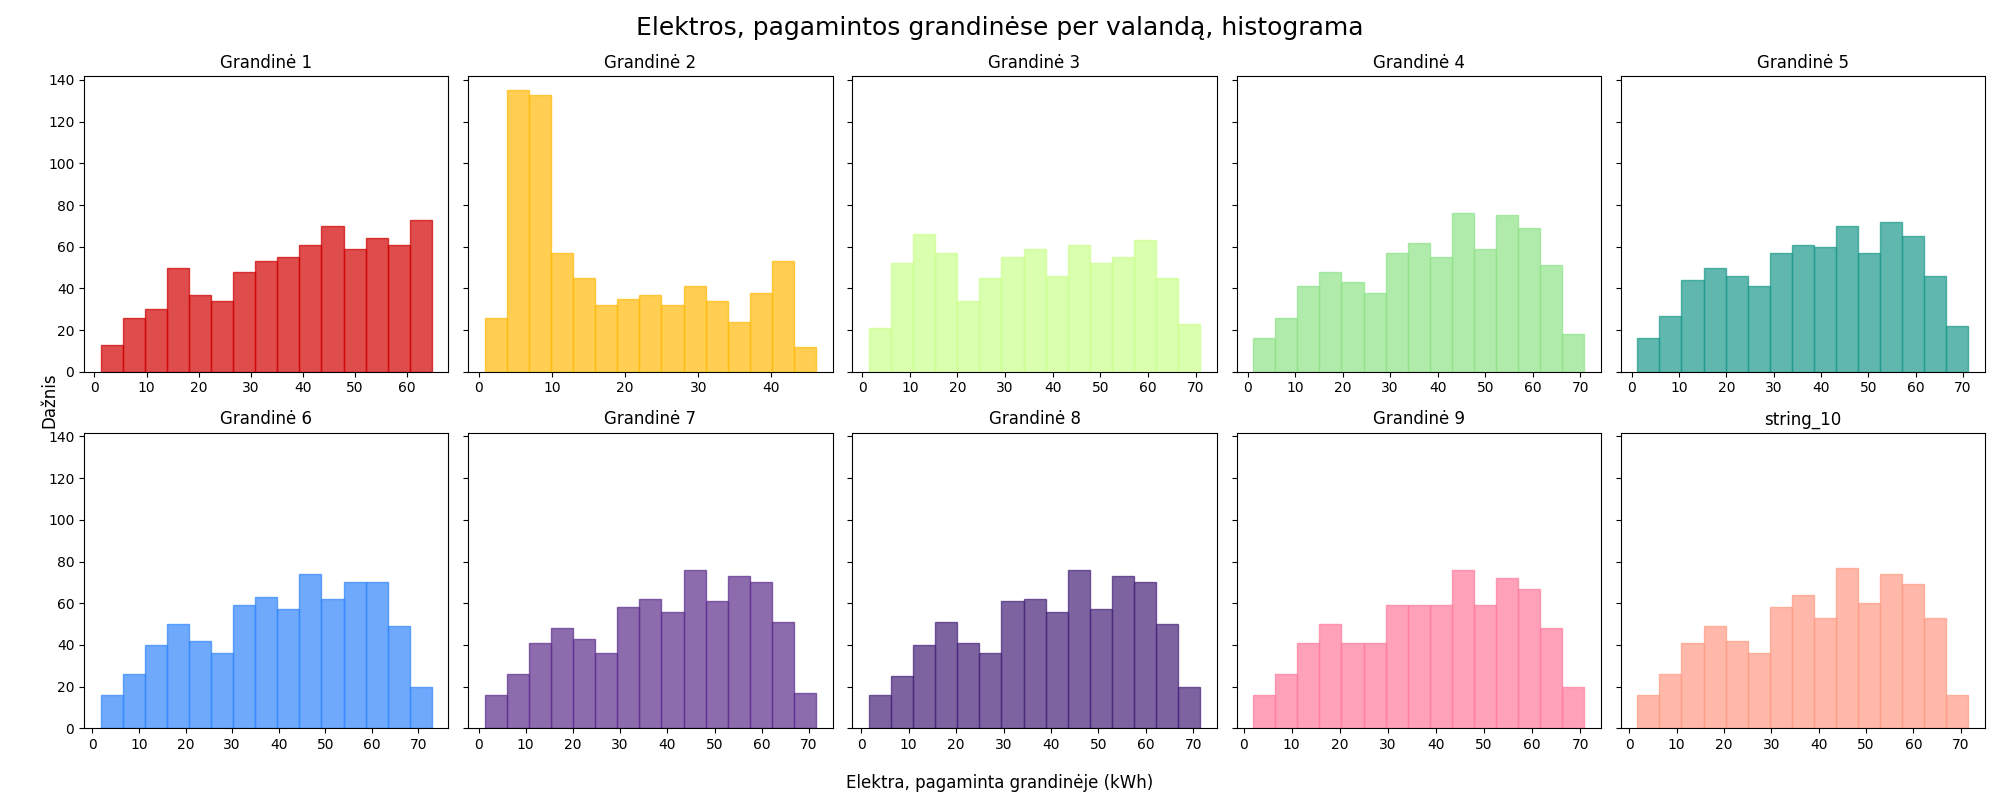
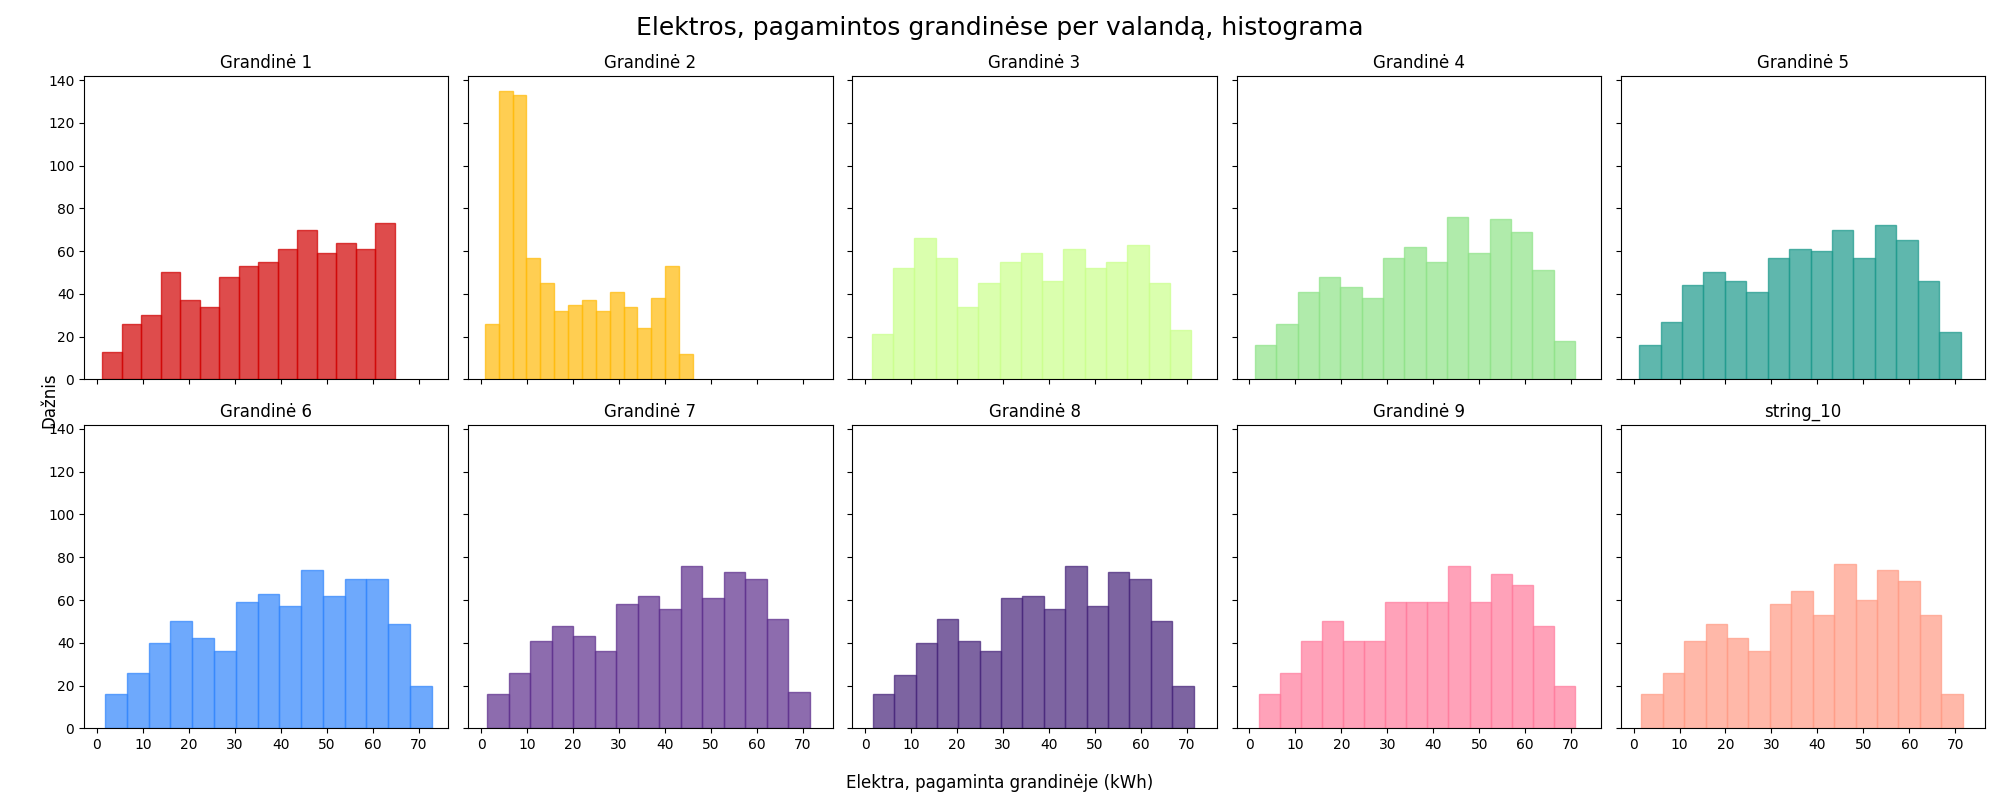
sulyginau x asi

diff --git a/lab1.py b/lab1.py
@@ -108,7 +108,7 @@ plt.savefig("grafikai/sklaidos.png")
 
 # %%
 # Dažnio diagramos - histogramos
-fig, axes = plt.subplots(2, 5, figsize=(20, 8), sharey=True)
+fig, axes = plt.subplots(2, 5, figsize=(20, 8), sharey=True, sharex=True)
 axes = axes.flatten()
 columns = [f"string_{i}" for i in range(1, 11)]
 
@@ -185,7 +185,7 @@ print(tick_positions)
 # %%
 #Standartizuotos aibes histogramos
 
-fig, axes = plt.subplots(2, 5, figsize=(20, 8), sharey=True)
+fig, axes = plt.subplots(2, 5, figsize=(20, 8), sharey=True, sharex=True)
 axes = axes.flatten()
 columns = [f"string_{i}" for i in range(1, 11)]
 
